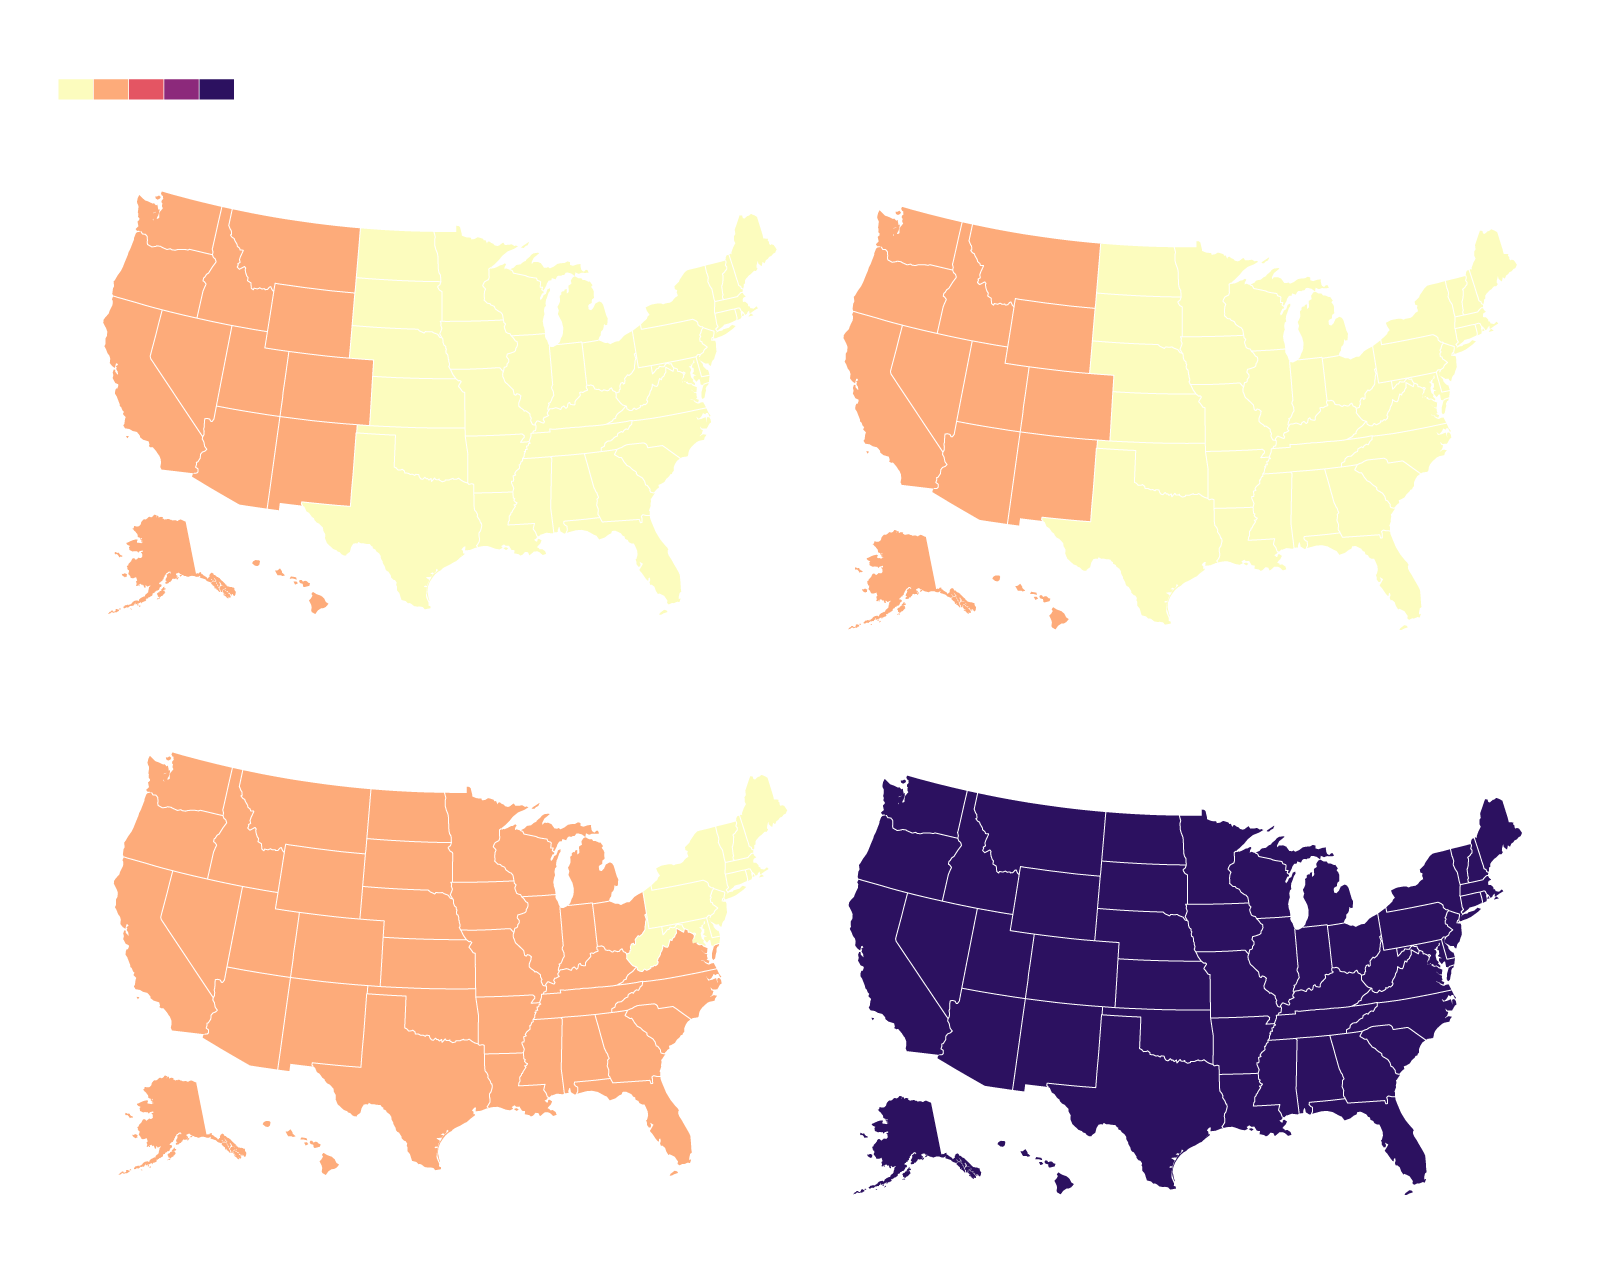
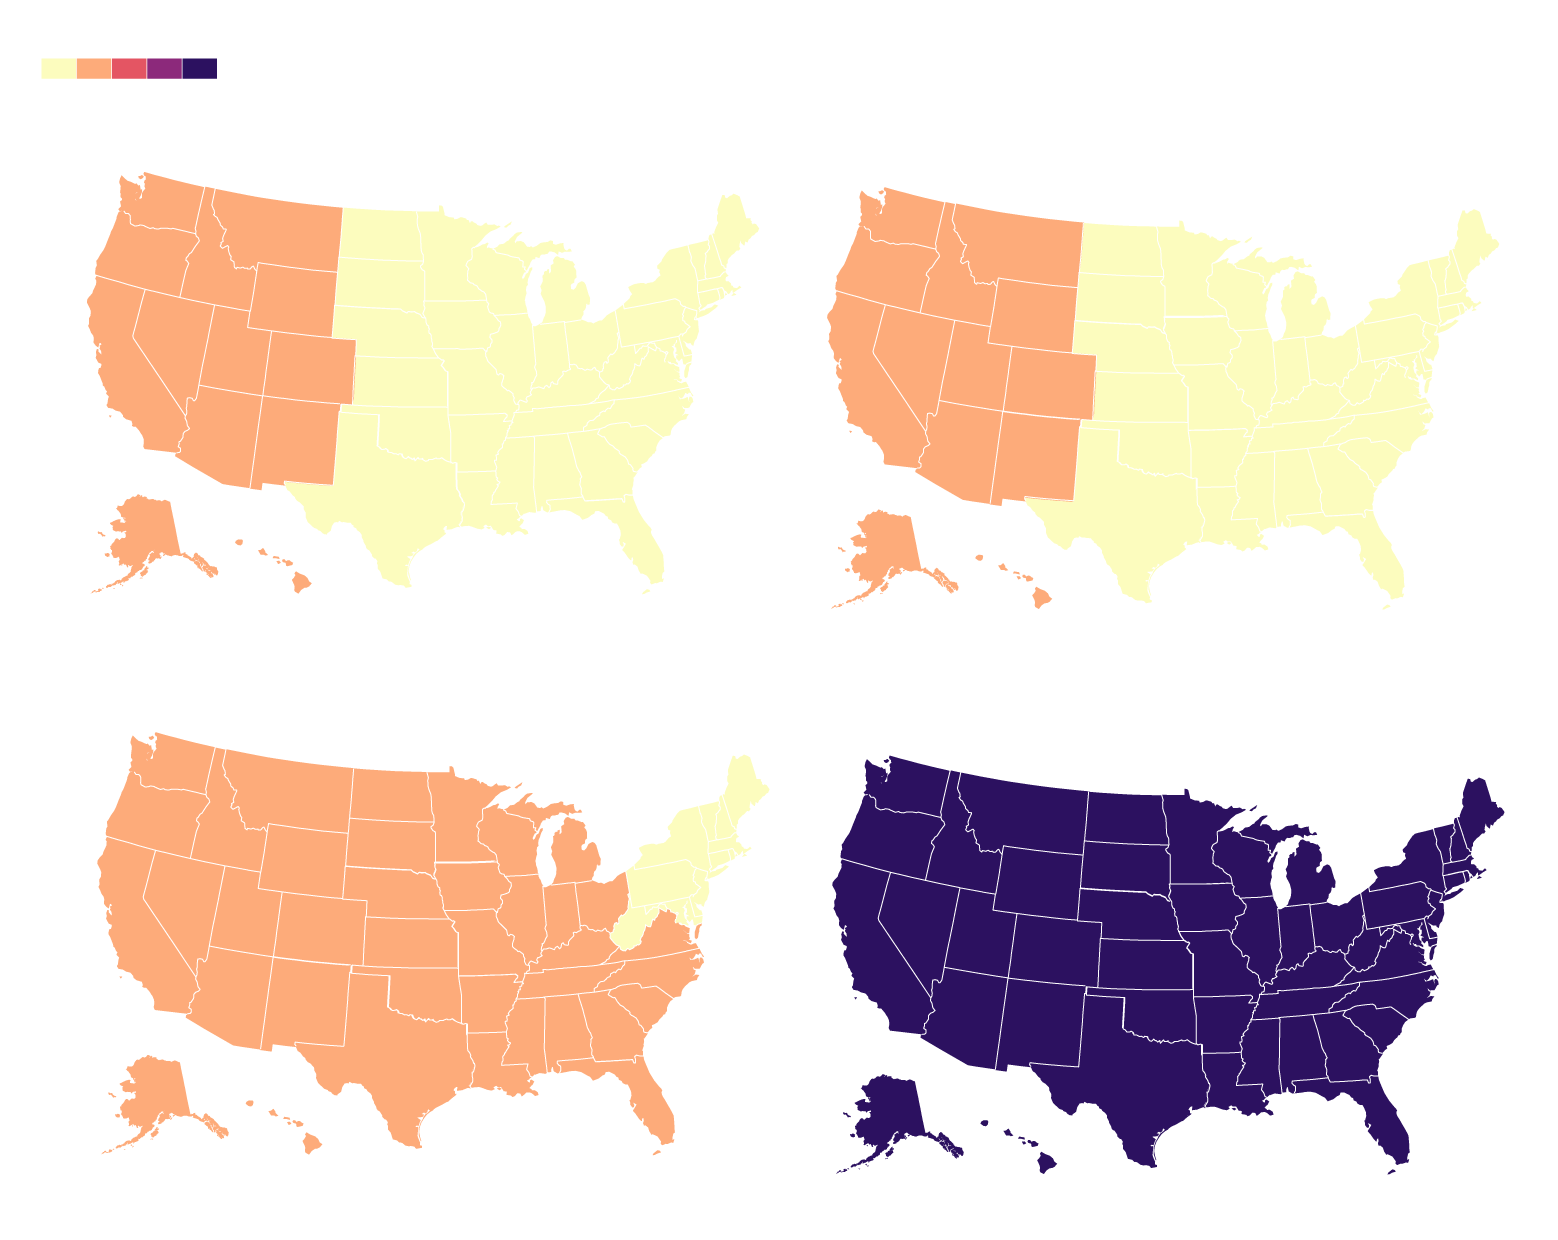
Add files via upload

diff --git a/projects/stagflation/index.html b/projects/stagflation/index.html
@@ -1077,13 +1077,14 @@
 		And the climb just started last year. Here's how price changes look like across America.
 	</div>
 	<div class="block">
-		<p class="mb-1 title is-5">Faster inflation spreads fast</p>
+		<p class="mb-1 title is-5">Inflation surge engulfs the US</p>
 	<p class="mt-0 subtitle is-6">Year-on-year change (seasonally-adjusted)</p>
 	</div>
 	</div>
 	<div class="container column is-full-desktop is-full-mobile is-full-tablet">
 
-<!-- Generated by ai2html v0.106.0 - 2022-04-30 13:34 -->
+
+<!-- Generated by ai2html v0.106.0 - 2022-04-30 18:58 -->
 <!-- ai file: mar2019.svg -->
 <style media="screen,print">
 	#g-mar2019_svg-box ,
@@ -1129,13 +1130,11 @@
 	}
 	#g-mar2019_svg-mobile .g-pstyle0 {
 		height:17px;
-		text-align:right;
 	}
 	#g-mar2019_svg-mobile .g-pstyle1 {
 		font-family:roboto,bold,sans-serif;
 		font-weight:bold;
 		height:17px;
-		text-align:right;
 	}
 	#g-mar2019_svg-desktop {
 		position:relative;
@@ -1173,78 +1172,86 @@
 <div id="g-mar2019_svg-box" class="ai2html">
 
 	<!-- Artboard: mobile -->
-	<div id="g-mar2019_svg-mobile" class="g-artboard" style="max-width: 367px;max-height: 700px" data-aspect-ratio="0.524" data-min-width="0" data-max-width="799">
+	<div id="g-mar2019_svg-mobile" class="g-artboard" style="max-width: 367px;max-height: 700px" data-aspect-ratio="0.524" data-min-width="0" data-max-width="778">
 <div style="padding: 0 0 190.7357% 0;"></div>
 		<img id="g-mar2019_svg-mobile-img" class="g-aiImg" alt="" src="mar2019_svg-mobile.png"/>
-		<div id="YoY" class="g-exportSvg g-aiAbs g-aiPointText" style="top:4.7693%;margin-top:-9.4px;right:21.9514%;width:40px;">
-			<p class="g-pstyle0">1%</p>
+		<div id="YoY" class="g-exportSvg g-aiAbs g-aiPointText" style="top:4.4836%;margin-top:-9.4px;left:88.8068%;width:52px;">
+			<p class="g-pstyle0">6.6%</p>
 		</div>
-		<div id="YoY" class="g-exportSvg g-aiAbs g-aiPointText" style="top:4.7693%;margin-top:-9.4px;right:2.7047%;width:40px;">
-			<p class="g-pstyle0">9%</p>
+		<div id="YoY" class="g-exportSvg g-aiAbs g-aiPointText" style="top:4.6265%;margin-top:-9.4px;left:74.2339%;width:52px;">
+			<p class="g-pstyle0">2.4%</p>
 		</div>
-		<div id="YoY" class="g-exportSvg g-aiAbs g-aiPointText" style="top:12.9122%;margin-top:-9.4px;right:11.0943%;width:97px;">
+		<div id="YoY" class="g-exportSvg g-aiAbs g-aiPointText" style="top:12.9122%;margin-top:-9.4px;left:68.4344%;width:97px;">
 			<p class="g-pstyle1">March 2019</p>
 		</div>
-		<div id="YoY" class="g-exportSvg g-aiAbs g-aiPointText" style="top:36.6265%;margin-top:-9.4px;right:10.7479%;width:97px;">
+		<div id="YoY" class="g-exportSvg g-aiAbs g-aiPointText" style="top:36.6265%;margin-top:-9.4px;left:68.7806%;width:97px;">
 			<p class="g-pstyle1">March 2020</p>
 		</div>
-		<div id="YoY" class="g-exportSvg g-aiAbs g-aiPointText" style="top:41.7407%;margin-top:-26.2px;right:10.5571%;width:91px;">
+		<div id="g-ai0-5" class="g-exportSvg g-aiAbs g-aiPointText" style="top:39.3408%;margin-top:-9.4px;left:72.2994%;width:84px;">
 			<p class="g-pstyle0">Pandemic</p>
+		</div>
+		<div id="g-ai0-6" class="g-exportSvg g-aiAbs g-aiPointText" style="top:41.7693%;margin-top:-9.4px;left:70.6374%;width:91px;">
 			<p class="g-pstyle0">shutdowns</p>
+		</div>
+		<div id="g-ai0-7" class="g-exportSvg g-aiAbs g-aiPointText" style="top:44.1979%;margin-top:-9.4px;left:79.9834%;width:56px;">
 			<p class="g-pstyle0">begin</p>
 		</div>
-		<div id="YoY" class="g-exportSvg g-aiAbs g-aiPointText" style="top:63.1979%;margin-top:-9.4px;right:5.9893%;width:97px;">
+		<div id="YoY" class="g-exportSvg g-aiAbs g-aiPointText" style="top:63.1979%;margin-top:-9.4px;left:73.5394%;width:97px;">
 			<p class="g-pstyle1">March 2021</p>
 		</div>
-		<div id="YoY" class="g-exportSvg g-aiAbs g-aiPointText" style="top:67.255%;margin-top:-17.8px;right:5.2961%;width:131px;">
+		<div id="g-ai0-9" class="g-exportSvg g-aiAbs g-aiPointText" style="top:66.055%;margin-top:-9.4px;left:65.0037%;width:131px;">
 			<p class="g-pstyle0">Lockdowns begin</p>
+		</div>
+		<div id="g-ai0-10" class="g-exportSvg g-aiAbs g-aiPointText" style="top:68.4836%;margin-top:-9.4px;left:75.385%;width:93px;">
 			<p class="g-pstyle0">to get lifted</p>
 		</div>
-		<div id="YoY" class="g-exportSvg g-aiAbs g-aiPointText" style="top:85.9122%;margin-top:-9.4px;right:9.333%;width:97px;">
+		<div id="YoY" class="g-exportSvg g-aiAbs g-aiPointText" style="top:85.9122%;margin-top:-9.4px;left:70.1957%;width:97px;">
 			<p class="g-pstyle1">March 2022</p>
 		</div>
-		<div id="YoY" class="g-exportSvg g-aiAbs g-aiPointText" style="top:90.1122%;margin-top:-17.8px;right:9.3184%;width:110px;">
+		<div id="g-ai0-12" class="g-exportSvg g-aiAbs g-aiPointText" style="top:88.9122%;margin-top:-9.4px;left:70.8497%;width:95px;">
 			<p class="g-pstyle0">States have</p>
+		</div>
+		<div id="g-ai0-13" class="g-exportSvg g-aiAbs g-aiPointText" style="top:91.1979%;margin-top:-9.4px;left:66.708%;width:110px;">
 			<p class="g-pstyle0">fully reopened</p>
 		</div>
 	</div>
 
 	<!-- Artboard: desktop -->
-	<div id="g-mar2019_svg-desktop" class="g-artboard" style="width:800px; height:633.075693668467px;" data-aspect-ratio="1.264" data-min-width="800">
+	<div id="g-mar2019_svg-desktop" class="g-artboard" style="width:779px; height:619.77916667823px;" data-aspect-ratio="1.257" data-min-width="779">
 <div style=""></div>
 		<img id="g-mar2019_svg-desktop-img" class="g-aiImg" alt="" src="mar2019_svg-desktop.png"/>
-		<div id="YoY" class="g-exportSvg g-aiAbs g-aiPointText" style="top:9.6964%;margin-top:-9.4px;right:93.909%;width:40px;">
-			<p class="g-pstyle0">1%</p>
+		<div id="YoY" class="g-exportSvg g-aiAbs g-aiPointText" style="top:7.9682%;margin-top:-9.4px;right:92.6539%;width:52px;">
+			<p class="g-pstyle0">2.4%</p>
 		</div>
-		<div id="YoY" class="g-exportSvg g-aiAbs g-aiPointText" style="top:9.6964%;margin-top:-9.4px;right:85.0795%;width:40px;">
-			<p class="g-pstyle0">9%</p>
+		<div id="YoY" class="g-exportSvg g-aiAbs g-aiPointText" style="top:8.1295%;margin-top:-9.4px;right:85.9703%;width:52px;">
+			<p class="g-pstyle0">6.6%</p>
 		</div>
-		<div id="YoY" class="g-exportSvg g-aiAbs g-aiPointText" style="top:12.5396%;margin-top:-9.4px;right:21.8691%;width:97px;">
+		<div id="YoY" class="g-exportSvg g-aiAbs g-aiPointText" style="top:11.1952%;margin-top:-9.4px;right:22.0977%;width:97px;">
 			<p class="g-pstyle1">March 2020</p>
 		</div>
-		<div id="YoY" class="g-exportSvg g-aiAbs g-aiPointText" style="top:12.5396%;margin-top:-9.4px;right:69.2624%;width:97px;">
+		<div id="YoY" class="g-exportSvg g-aiAbs g-aiPointText" style="top:11.1952%;margin-top:-9.4px;right:70.897%;width:97px;">
 			<p class="g-pstyle1">March 2019</p>
 		</div>
-		<div id="YoY" class="g-exportSvg g-aiAbs g-aiPointText" style="top:16.0147%;margin-top:-9.4px;right:14.7258%;width:194px;">
+		<div id="YoY" class="g-exportSvg g-aiAbs g-aiPointText" style="top:14.9062%;margin-top:-9.4px;right:16.1224%;width:194px;">
 			<p class="g-pstyle0">Pandemic shutdowns begin</p>
 		</div>
-		<div id="YoY" class="g-exportSvg g-aiAbs g-aiPointText" style="top:55.3465%;margin-top:-9.4px;right:68.8845%;width:97px;">
+		<div id="YoY" class="g-exportSvg g-aiAbs g-aiPointText" style="top:54.9204%;margin-top:-9.4px;right:70.1238%;width:97px;">
 			<p class="g-pstyle1">March 2021</p>
 		</div>
-		<div id="YoY" class="g-exportSvg g-aiAbs g-aiPointText" style="top:55.3465%;margin-top:-9.4px;right:21.6253%;width:97px;">
+		<div id="YoY" class="g-exportSvg g-aiAbs g-aiPointText" style="top:54.9204%;margin-top:-9.4px;right:21.7188%;width:97px;">
 			<p class="g-pstyle1">March 2022</p>
 		</div>
-		<div id="YoY" class="g-exportSvg g-aiAbs g-aiPointText" style="top:58.3477%;margin-top:-9.4px;right:61.4116%;width:205px;">
+		<div id="YoY" class="g-exportSvg g-aiAbs g-aiPointText" style="top:57.986%;margin-top:-9.4px;right:63.6964%;width:205px;">
 			<p class="g-pstyle0">Lockdowns begin to get lifted</p>
 		</div>
-		<div id="YoY" class="g-exportSvg g-aiAbs g-aiPointText" style="top:58.8216%;margin-top:-9.4px;right:15.1725%;width:186px;">
+		<div id="YoY" class="g-exportSvg g-aiAbs g-aiPointText" style="top:58.4701%;margin-top:-9.4px;right:16.4326%;width:186px;">
 			<p class="g-pstyle0">States have fully reopened</p>
 		</div>
 	</div>
 
 </div>
 
-<!-- End ai2html - 2022-04-30 13:34 -->
+<!-- End ai2html - 2022-04-30 18:58 -->
 
 </div>
 <div class="container column is-half-desktop is-full-mobile is-full-tablet">

diff --git a/projects/stagflation/mar2019_svg.html b/projects/stagflation/mar2019_svg.html
@@ -1,5 +1,5 @@
 
-<!-- Generated by ai2html v0.106.0 - 2022-04-30 13:34 -->
+<!-- Generated by ai2html v0.106.0 - 2022-04-30 18:58 -->
 <!-- ai file: mar2019.svg -->
 <style media="screen,print">
 	#g-mar2019_svg-box ,
@@ -45,13 +45,11 @@
 	}
 	#g-mar2019_svg-mobile .g-pstyle0 {
 		height:17px;
-		text-align:right;
 	}
 	#g-mar2019_svg-mobile .g-pstyle1 {
 		font-family:roboto,bold,sans-serif;
 		font-weight:bold;
 		height:17px;
-		text-align:right;
 	}
 	#g-mar2019_svg-desktop {
 		position:relative;
@@ -89,75 +87,83 @@
 <div id="g-mar2019_svg-box" class="ai2html">
 
 	<!-- Artboard: mobile -->
-	<div id="g-mar2019_svg-mobile" class="g-artboard" style="max-width: 367px;max-height: 700px" data-aspect-ratio="0.524" data-min-width="0" data-max-width="799">
+	<div id="g-mar2019_svg-mobile" class="g-artboard" style="max-width: 367px;max-height: 700px" data-aspect-ratio="0.524" data-min-width="0" data-max-width="778">
 <div style="padding: 0 0 190.7357% 0;"></div>
 		<img id="g-mar2019_svg-mobile-img" class="g-aiImg" alt="" src="mar2019_svg-mobile.png"/>
-		<div id="YoY" class="g-exportSvg g-aiAbs g-aiPointText" style="top:4.7693%;margin-top:-9.4px;right:21.9514%;width:40px;">
-			<p class="g-pstyle0">1%</p>
+		<div id="YoY" class="g-exportSvg g-aiAbs g-aiPointText" style="top:4.4836%;margin-top:-9.4px;left:88.8068%;width:52px;">
+			<p class="g-pstyle0">6.6%</p>
 		</div>
-		<div id="YoY" class="g-exportSvg g-aiAbs g-aiPointText" style="top:4.7693%;margin-top:-9.4px;right:2.7047%;width:40px;">
-			<p class="g-pstyle0">9%</p>
+		<div id="YoY" class="g-exportSvg g-aiAbs g-aiPointText" style="top:4.6265%;margin-top:-9.4px;left:74.2339%;width:52px;">
+			<p class="g-pstyle0">2.4%</p>
 		</div>
-		<div id="YoY" class="g-exportSvg g-aiAbs g-aiPointText" style="top:12.9122%;margin-top:-9.4px;right:11.0943%;width:97px;">
+		<div id="YoY" class="g-exportSvg g-aiAbs g-aiPointText" style="top:12.9122%;margin-top:-9.4px;left:68.4344%;width:97px;">
 			<p class="g-pstyle1">March 2019</p>
 		</div>
-		<div id="YoY" class="g-exportSvg g-aiAbs g-aiPointText" style="top:36.6265%;margin-top:-9.4px;right:10.7479%;width:97px;">
+		<div id="YoY" class="g-exportSvg g-aiAbs g-aiPointText" style="top:36.6265%;margin-top:-9.4px;left:68.7806%;width:97px;">
 			<p class="g-pstyle1">March 2020</p>
 		</div>
-		<div id="YoY" class="g-exportSvg g-aiAbs g-aiPointText" style="top:41.7407%;margin-top:-26.2px;right:10.5571%;width:91px;">
+		<div id="g-ai0-5" class="g-exportSvg g-aiAbs g-aiPointText" style="top:39.3408%;margin-top:-9.4px;left:72.2994%;width:84px;">
 			<p class="g-pstyle0">Pandemic</p>
+		</div>
+		<div id="g-ai0-6" class="g-exportSvg g-aiAbs g-aiPointText" style="top:41.7693%;margin-top:-9.4px;left:70.6374%;width:91px;">
 			<p class="g-pstyle0">shutdowns</p>
+		</div>
+		<div id="g-ai0-7" class="g-exportSvg g-aiAbs g-aiPointText" style="top:44.1979%;margin-top:-9.4px;left:79.9834%;width:56px;">
 			<p class="g-pstyle0">begin</p>
 		</div>
-		<div id="YoY" class="g-exportSvg g-aiAbs g-aiPointText" style="top:63.1979%;margin-top:-9.4px;right:5.9893%;width:97px;">
+		<div id="YoY" class="g-exportSvg g-aiAbs g-aiPointText" style="top:63.1979%;margin-top:-9.4px;left:73.5394%;width:97px;">
 			<p class="g-pstyle1">March 2021</p>
 		</div>
-		<div id="YoY" class="g-exportSvg g-aiAbs g-aiPointText" style="top:67.255%;margin-top:-17.8px;right:5.2961%;width:131px;">
+		<div id="g-ai0-9" class="g-exportSvg g-aiAbs g-aiPointText" style="top:66.055%;margin-top:-9.4px;left:65.0037%;width:131px;">
 			<p class="g-pstyle0">Lockdowns begin</p>
+		</div>
+		<div id="g-ai0-10" class="g-exportSvg g-aiAbs g-aiPointText" style="top:68.4836%;margin-top:-9.4px;left:75.385%;width:93px;">
 			<p class="g-pstyle0">to get lifted</p>
 		</div>
-		<div id="YoY" class="g-exportSvg g-aiAbs g-aiPointText" style="top:85.9122%;margin-top:-9.4px;right:9.333%;width:97px;">
+		<div id="YoY" class="g-exportSvg g-aiAbs g-aiPointText" style="top:85.9122%;margin-top:-9.4px;left:70.1957%;width:97px;">
 			<p class="g-pstyle1">March 2022</p>
 		</div>
-		<div id="YoY" class="g-exportSvg g-aiAbs g-aiPointText" style="top:90.1122%;margin-top:-17.8px;right:9.3184%;width:110px;">
+		<div id="g-ai0-12" class="g-exportSvg g-aiAbs g-aiPointText" style="top:88.9122%;margin-top:-9.4px;left:70.8497%;width:95px;">
 			<p class="g-pstyle0">States have</p>
+		</div>
+		<div id="g-ai0-13" class="g-exportSvg g-aiAbs g-aiPointText" style="top:91.1979%;margin-top:-9.4px;left:66.708%;width:110px;">
 			<p class="g-pstyle0">fully reopened</p>
 		</div>
 	</div>
 
 	<!-- Artboard: desktop -->
-	<div id="g-mar2019_svg-desktop" class="g-artboard" style="width:800px; height:633.075693668467px;" data-aspect-ratio="1.264" data-min-width="800">
+	<div id="g-mar2019_svg-desktop" class="g-artboard" style="width:779px; height:619.77916667823px;" data-aspect-ratio="1.257" data-min-width="779">
 <div style=""></div>
 		<img id="g-mar2019_svg-desktop-img" class="g-aiImg" alt="" src="mar2019_svg-desktop.png"/>
-		<div id="YoY" class="g-exportSvg g-aiAbs g-aiPointText" style="top:9.6964%;margin-top:-9.4px;right:93.909%;width:40px;">
-			<p class="g-pstyle0">1%</p>
+		<div id="YoY" class="g-exportSvg g-aiAbs g-aiPointText" style="top:7.9682%;margin-top:-9.4px;right:92.6539%;width:52px;">
+			<p class="g-pstyle0">2.4%</p>
 		</div>
-		<div id="YoY" class="g-exportSvg g-aiAbs g-aiPointText" style="top:9.6964%;margin-top:-9.4px;right:85.0795%;width:40px;">
-			<p class="g-pstyle0">9%</p>
+		<div id="YoY" class="g-exportSvg g-aiAbs g-aiPointText" style="top:8.1295%;margin-top:-9.4px;right:85.9703%;width:52px;">
+			<p class="g-pstyle0">6.6%</p>
 		</div>
-		<div id="YoY" class="g-exportSvg g-aiAbs g-aiPointText" style="top:12.5396%;margin-top:-9.4px;right:21.8691%;width:97px;">
+		<div id="YoY" class="g-exportSvg g-aiAbs g-aiPointText" style="top:11.1952%;margin-top:-9.4px;right:22.0977%;width:97px;">
 			<p class="g-pstyle1">March 2020</p>
 		</div>
-		<div id="YoY" class="g-exportSvg g-aiAbs g-aiPointText" style="top:12.5396%;margin-top:-9.4px;right:69.2624%;width:97px;">
+		<div id="YoY" class="g-exportSvg g-aiAbs g-aiPointText" style="top:11.1952%;margin-top:-9.4px;right:70.897%;width:97px;">
 			<p class="g-pstyle1">March 2019</p>
 		</div>
-		<div id="YoY" class="g-exportSvg g-aiAbs g-aiPointText" style="top:16.0147%;margin-top:-9.4px;right:14.7258%;width:194px;">
+		<div id="YoY" class="g-exportSvg g-aiAbs g-aiPointText" style="top:14.9062%;margin-top:-9.4px;right:16.1224%;width:194px;">
 			<p class="g-pstyle0">Pandemic shutdowns begin</p>
 		</div>
-		<div id="YoY" class="g-exportSvg g-aiAbs g-aiPointText" style="top:55.3465%;margin-top:-9.4px;right:68.8845%;width:97px;">
+		<div id="YoY" class="g-exportSvg g-aiAbs g-aiPointText" style="top:54.9204%;margin-top:-9.4px;right:70.1238%;width:97px;">
 			<p class="g-pstyle1">March 2021</p>
 		</div>
-		<div id="YoY" class="g-exportSvg g-aiAbs g-aiPointText" style="top:55.3465%;margin-top:-9.4px;right:21.6253%;width:97px;">
+		<div id="YoY" class="g-exportSvg g-aiAbs g-aiPointText" style="top:54.9204%;margin-top:-9.4px;right:21.7188%;width:97px;">
 			<p class="g-pstyle1">March 2022</p>
 		</div>
-		<div id="YoY" class="g-exportSvg g-aiAbs g-aiPointText" style="top:58.3477%;margin-top:-9.4px;right:61.4116%;width:205px;">
+		<div id="YoY" class="g-exportSvg g-aiAbs g-aiPointText" style="top:57.986%;margin-top:-9.4px;right:63.6964%;width:205px;">
 			<p class="g-pstyle0">Lockdowns begin to get lifted</p>
 		</div>
-		<div id="YoY" class="g-exportSvg g-aiAbs g-aiPointText" style="top:58.8216%;margin-top:-9.4px;right:15.1725%;width:186px;">
+		<div id="YoY" class="g-exportSvg g-aiAbs g-aiPointText" style="top:58.4701%;margin-top:-9.4px;right:16.4326%;width:186px;">
 			<p class="g-pstyle0">States have fully reopened</p>
 		</div>
 	</div>
 
 </div>
 
-<!-- End ai2html - 2022-04-30 13:34 -->
+<!-- End ai2html - 2022-04-30 18:58 -->
